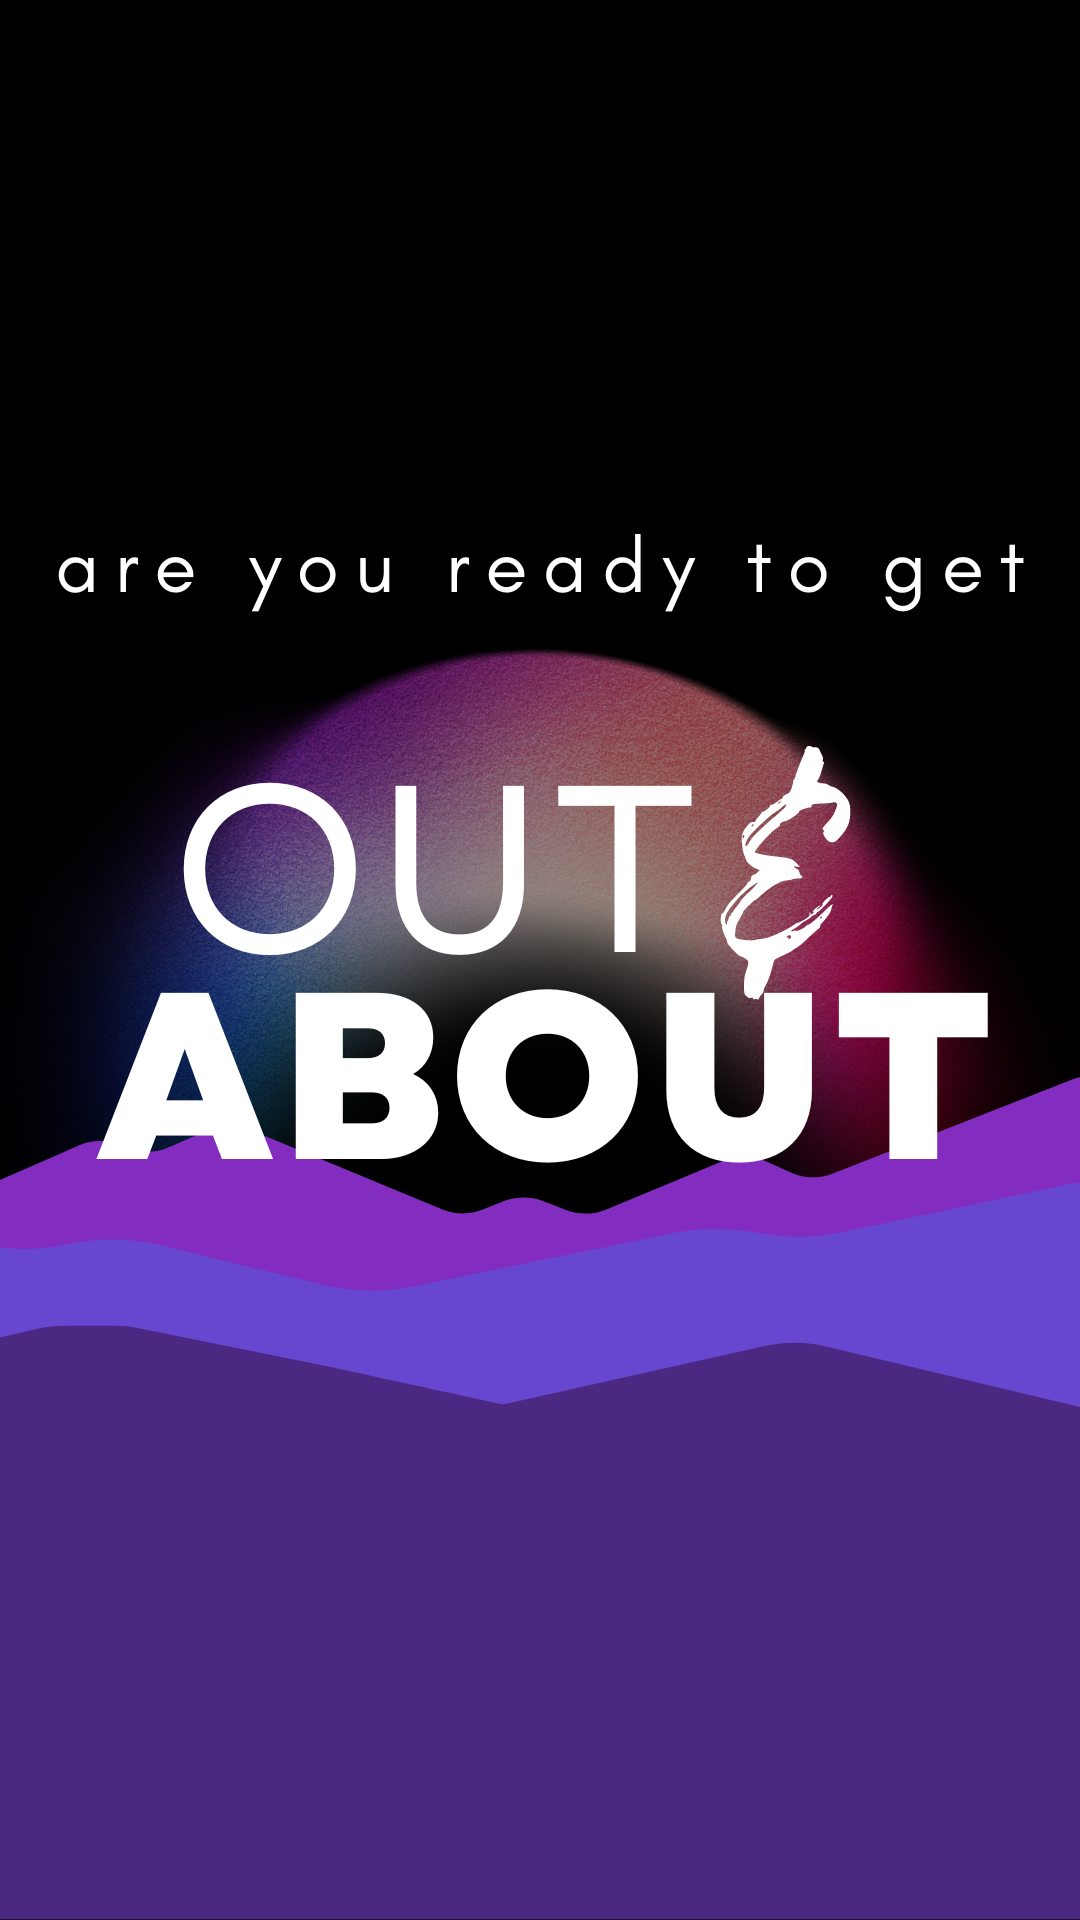
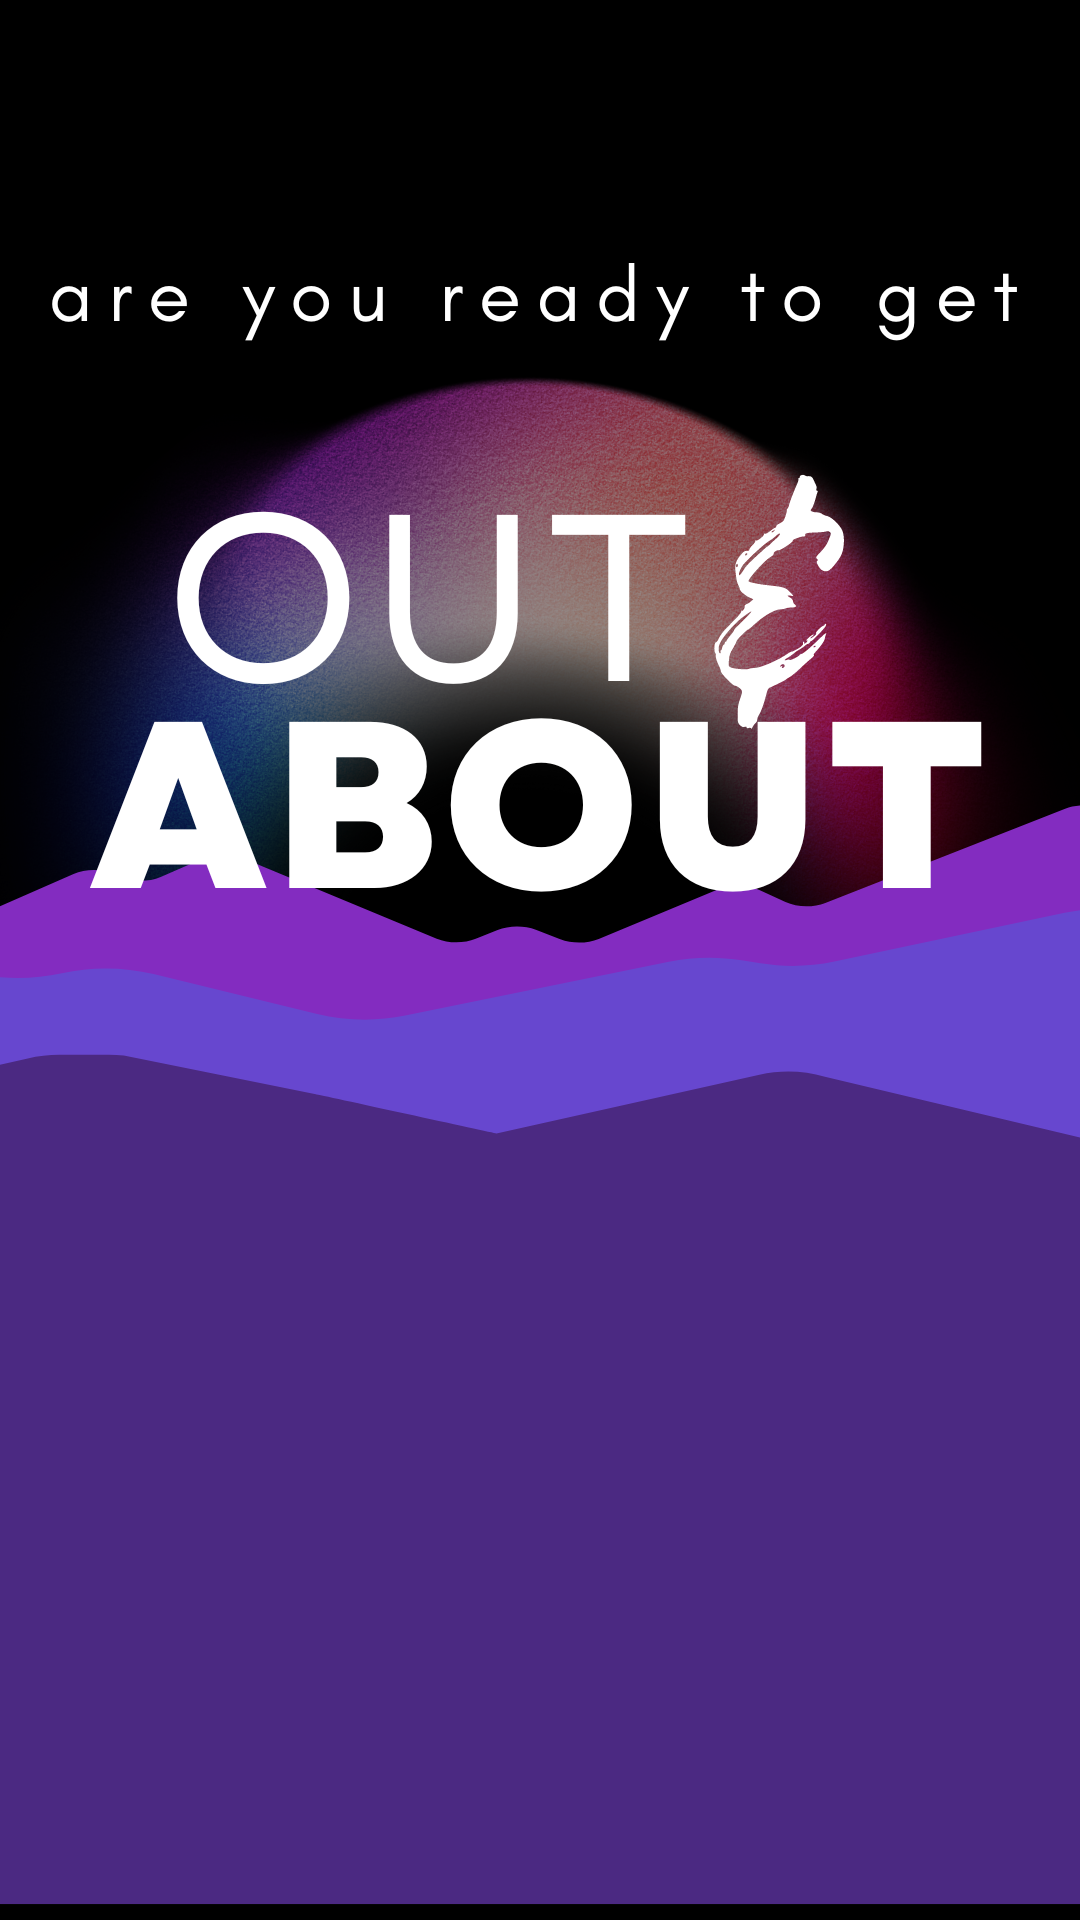
updating styling

diff --git a/client/src/components/Home.js b/client/src/components/Home.js
@@ -9,7 +9,7 @@ const mainStyle = {
 };
 
 const btnStyles = {
-  marginBottom: "45px",
+  marginBottom: "15px",
   backgroundColor: "white",
   color: "#981FC2",
   width: "40vw",
@@ -27,14 +27,32 @@ const Home = () => {
     <main style={mainStyle}>
       <ThemeProvider theme={inputTheme}>
         <div className="hero hero-image">
-          <Button
-            size="large"
-            style={btnStyles}
-            variant="contained"
-            onClick={btnHandle}
+          <div
+            style={{
+              display: "flex",
+              flexDirection: "column",
+              alignItems: "Center",
+              textAlign: "center",
+              color: "white",
+              maxWidth: "70%",
+              backgroundColor: "RGBA(72,42,129,0.75)",
+            }}
           >
-            Sign up today!
-          </Button>
+            <p>
+              Are you tired of walking alone and want to add some excitement to
+              your daily routine? Join your local community Out & About to
+              complete quests, solve riddles, and earn rewards all while making
+              new friends along the way.
+            </p>
+            <Button
+              size="large"
+              style={btnStyles}
+              variant="contained"
+              onClick={btnHandle}
+            >
+              Sign up today!
+            </Button>
+          </div>
         </div>
       </ThemeProvider>
     </main>

diff --git a/client/src/style/app.css b/client/src/style/app.css
@@ -16,7 +16,7 @@
 }
 
 .hero-image{
-  background-image: url("./../assets/hero2.png") ;
+  background-image: url("./../assets/hero.png") ;
   background-size: cover;
   background-position: center 40%;
 }
